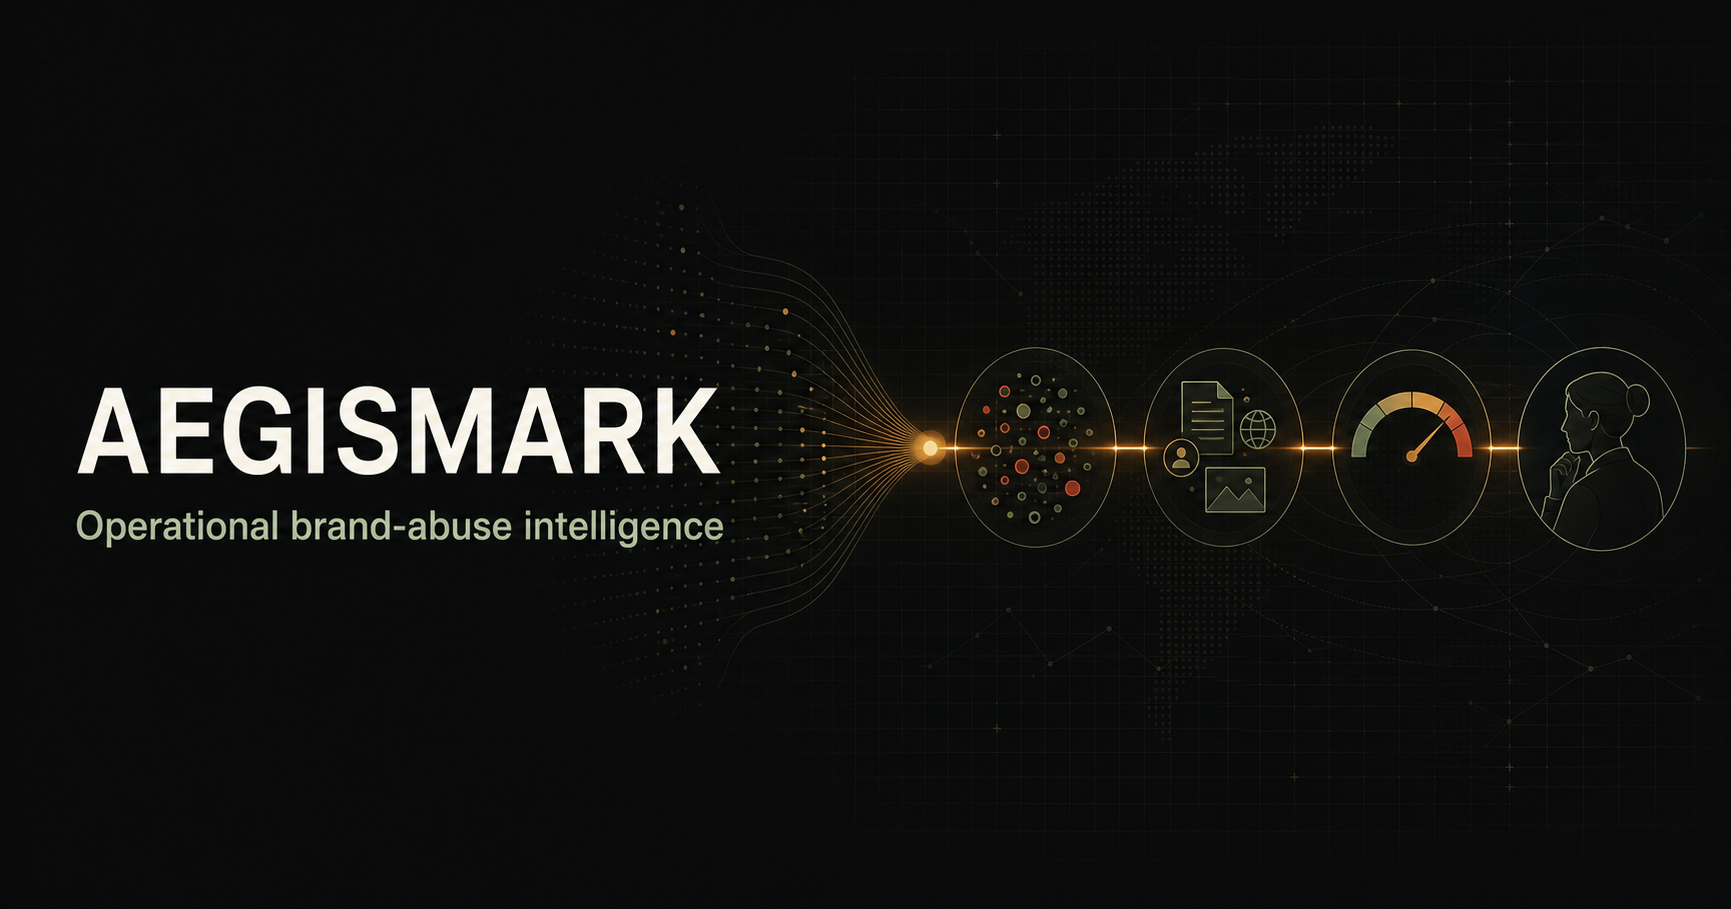
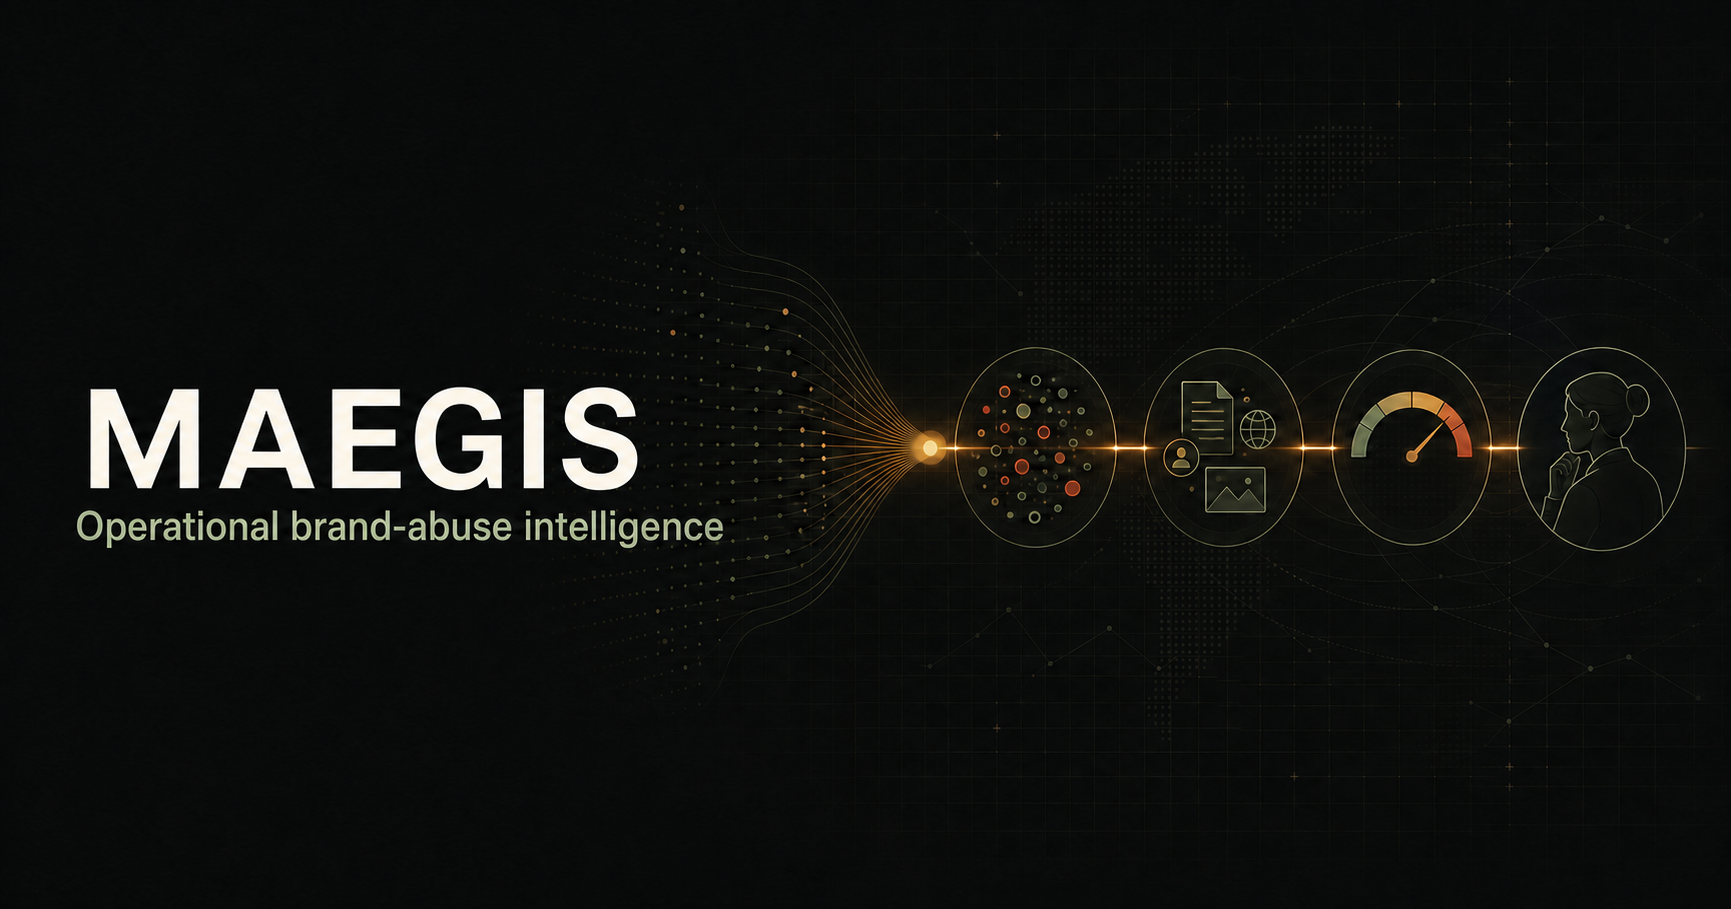
feat: rename platform to MAegis and connect live incident proxy

Changed region(s): [[0.0312, 0.4004, 0.4367, 0.5853], [0.4991, 0.462, 0.5303, 0.5237]]

diff --git a/app/page.tsx b/app/page.tsx
@@ -1,6 +1,6 @@
 "use client";
 
-import { useMemo, useState } from "react";
+import { useEffect, useMemo, useState } from "react";
 
 type Incident = {
   id: string;
@@ -16,7 +16,7 @@ type Incident = {
   summary: string;
 };
 
-const incidents: Incident[] = [
+const seededIncidents: Incident[] = [
   {
     id: "INC-2048",
     domain: "acme-id-verify.com",
@@ -96,9 +96,11 @@ function severityClass(severity: Incident["severity"]) {
 }
 
 export default function Home() {
+  const [incidents, setIncidents] = useState<Incident[]>(seededIncidents);
+  const [dataMode, setDataMode] = useState<"demo" | "live">("demo");
   const [filter, setFilter] = useState("All");
   const [query, setQuery] = useState("");
-  const [selected, setSelected] = useState<Incident | null>(incidents[0]);
+  const [selected, setSelected] = useState<Incident | null>(seededIncidents[0]);
   const [showSubmission, setShowSubmission] = useState(false);
 
   const visible = useMemo(() => {
@@ -107,12 +109,27 @@ export default function Home() {
       const haystack = `${incident.domain} ${incident.brand} ${incident.source}`.toLowerCase();
       return matchesFilter && haystack.includes(query.toLowerCase());
     });
-  }, [filter, query]);
+  }, [filter, query, incidents]);
+
+  useEffect(() => {
+    const controller = new AbortController();
+    fetch("/api/incidents", { signal: controller.signal })
+      .then((response) => response.ok ? response.json() : Promise.reject(new Error("API unavailable")))
+      .then((payload: { mode: "demo" | "live"; incidents: Incident[] }) => {
+        if (payload.mode === "live" && payload.incidents.length > 0) {
+          setIncidents(payload.incidents);
+          setSelected(payload.incidents[0]);
+          setDataMode("live");
+        }
+      })
+      .catch(() => undefined);
+    return () => controller.abort();
+  }, []);
 
   return (
     <main className="app-shell">
       <aside className="sidebar">
-        <div className="wordmark"><span className="brand-sigil">A</span><span>AEGISMARK</span></div>
+        <div className="wordmark"><span className="brand-sigil">M</span><span>MAEGIS</span></div>
         <nav aria-label="Primary navigation">
           <p className="nav-label">Monitor</p>
           <a className="nav-item active" href="#overview"><span>⌁</span>Overview</a>
@@ -140,7 +157,7 @@ export default function Home() {
           </div>
         </header>
 
-        <div className="operational-banner"><span className="pulse-dot" /><strong>Live monitoring</strong><span>Last observation 18 seconds ago</span><span className="banner-rule" /><span>Coverage window</span><strong>24/7</strong></div>
+        <div className="operational-banner"><span className="pulse-dot" /><strong>{dataMode === "live" ? "Live monitoring" : "Read-only demonstration"}</strong><span>{dataMode === "live" ? "Connected to the private MAegis API" : "Seeded findings — configure MAEGIS_API_URL for live data"}</span><span className="banner-rule" /><span>Coverage window</span><strong>24/7</strong></div>
 
         <section className="metrics-grid" aria-label="Key risk metrics">
           <article className="metric-card"><div><span>Open incidents</span><b className="trend up">↑ 18%</b></div><strong>47</strong><p>12 require analyst action</p><div className="mini-bars">{[30,42,34,55,49,72,64,83,78,92].map((height, index) => <i key={index} style={{height: `${height}%`}} />)}</div></article>

diff --git a/app/api/incidents/route.ts b/app/api/incidents/route.ts
@@ -1,0 +1,54 @@
+type ApiIncident = {
+  id: string;
+  domain: string;
+  brand_id: string;
+  risk_score: number;
+  severity: string;
+  status: string;
+  summary: string;
+  created_at: string;
+  contributions?: Array<{ explanation: string }>;
+};
+
+function titleCase(value: string) {
+  return value.replaceAll("_", " ").replace(/\b\w/g, (letter) => letter.toUpperCase());
+}
+
+function ageFrom(value: string) {
+  const seconds = Math.max(0, Math.floor((Date.now() - new Date(value).getTime()) / 1000));
+  if (seconds < 60) return `${seconds}s`;
+  if (seconds < 3600) return `${Math.floor(seconds / 60)}m`;
+  if (seconds < 86400) return `${Math.floor(seconds / 3600)}h`;
+  return `${Math.floor(seconds / 86400)}d`;
+}
+
+export async function GET() {
+  const baseUrl = process.env.MAEGIS_API_URL;
+  if (!baseUrl) return Response.json({ mode: "demo", incidents: [] });
+
+  try {
+    const response = await fetch(`${baseUrl.replace(/\/$/, "")}/api/v1/incidents?limit=100`, {
+      headers: process.env.MAEGIS_API_KEY ? { "X-API-Key": process.env.MAEGIS_API_KEY } : {},
+      cache: "no-store",
+      signal: AbortSignal.timeout(5000),
+    });
+    if (!response.ok) throw new Error(`Backend returned ${response.status}`);
+    const rows = await response.json() as ApiIncident[];
+    const incidents = rows.map((row) => ({
+      id: row.id,
+      domain: row.domain,
+      brand: `Brand ${row.brand_id.slice(0, 8)}`,
+      source: "MAegis API",
+      score: Math.round(row.risk_score),
+      severity: titleCase(row.severity),
+      status: titleCase(row.status),
+      age: ageFrom(row.created_at),
+      firstSeen: new Date(row.created_at).toLocaleString("en-GB", { timeZone: "UTC" }) + " UTC",
+      signals: (row.contributions ?? []).map((item) => item.explanation),
+      summary: row.summary,
+    }));
+    return Response.json({ mode: "live", incidents }, { headers: { "Cache-Control": "no-store" } });
+  } catch {
+    return Response.json({ mode: "demo", incidents: [] });
+  }
+}

diff --git a/app/layout.tsx b/app/layout.tsx
@@ -6,11 +6,11 @@ const geistSans = Geist({ variable: "--font-geist-sans", subsets: ["latin"] });
 const geistMono = Geist_Mono({ variable: "--font-geist-mono", subsets: ["latin"] });
 
 export const metadata: Metadata = {
-  title: "AegisMark — Operational brand-abuse intelligence",
+  title: "MAegis — Operational brand-abuse intelligence",
   description: "Discover, analyze, score, and triage suspicious domains targeting protected brands.",
   icons: { icon: "/favicon.svg", shortcut: "/favicon.svg" },
-  openGraph: { title: "AegisMark", description: "Operational brand-abuse intelligence", images: [{ url: "/og.png", width: 1200, height: 630 }] },
-  twitter: { card: "summary_large_image", title: "AegisMark", description: "Operational brand-abuse intelligence", images: ["/og.png"] },
+  openGraph: { title: "MAegis", description: "Operational brand-abuse intelligence", images: [{ url: "/og.png", width: 1200, height: 630 }] },
+  twitter: { card: "summary_large_image", title: "MAegis", description: "Operational brand-abuse intelligence", images: ["/og.png"] },
 };
 
 export default function RootLayout({ children }: Readonly<{ children: React.ReactNode }>) {

diff --git a/services/api/app/main.py b/services/api/app/main.py
@@ -23,7 +23,7 @@ async def lifespan(_: FastAPI):
 
 
 app = FastAPI(
-    title="AegisMark Operational API",
+    title="MAegis Operational API",
     version="0.1.0",
     description="Live brand-abuse discovery, scoring, evidence, and analyst triage.",
     lifespan=lifespan,
@@ -37,7 +37,7 @@ def audit(db: Session, principal: Principal, action: str, resource_type: str, re
 
 @app.get("/api/v1/health")
 def health() -> dict:
-    return {"status": "ok", "service": "aegismark-api", "capture_enabled": get_settings().capture_enabled}
+    return {"status": "ok", "service": "maegis-api", "capture_enabled": get_settings().capture_enabled}
 
 
 @app.post("/api/v1/brands", response_model=BrandView, status_code=status.HTTP_201_CREATED)

diff --git a/services/api/app/config.py b/services/api/app/config.py
@@ -3,10 +3,10 @@ from pydantic_settings import BaseSettings, SettingsConfigDict
 
 
 class Settings(BaseSettings):
-    model_config = SettingsConfigDict(env_prefix="AEGISMARK_", env_file=".env", extra="ignore")
+    model_config = SettingsConfigDict(env_prefix="MAEGIS_", env_file=".env", extra="ignore")
 
     environment: str = "development"
-    database_url: str = "postgresql+psycopg://aegismark:aegismark@postgres:5432/aegismark"
+    database_url: str = "postgresql+psycopg://maegis:maegis@postgres:5432/maegis"
     api_key: str | None = None
     capture_enabled: bool = False
     ct_search_url: str = "https://crt.sh/"

diff --git a/services/api/app/__init__.py b/services/api/app/__init__.py
@@ -1,2 +1,1 @@
-"""AegisMark operational API."""
-
+"""MAegis operational API."""

diff --git a/README.md b/README.md
@@ -1,8 +1,8 @@
-# AegisMark
+# MAegis
 
-AegisMark is an operational brand-abuse monitoring SaaS that discovers suspicious domains, produces reproducible evidence and risk scores, and gives analysts a structured triage queue. It is designed as a master's thesis and public engineering portfolio without pretending that a solo deployment has commercial passive-DNS coverage.
+MAegis is an operational brand-abuse monitoring SaaS that discovers suspicious domains, produces reproducible evidence and risk scores, and gives analysts a structured triage queue. It is designed as a master's thesis and public engineering portfolio without pretending that a solo deployment has commercial passive-DNS coverage.
 
-![AegisMark social preview](public/og.png)
+![MAegis social preview](public/og.png)
 
 ## Current milestone
 
@@ -79,7 +79,7 @@ The response contains the normalized domain, risk, confidence, severity, detecto
 
 ## Safety defaults
 
-- Page capture is disabled unless `AEGISMARK_CAPTURE_ENABLED=true`.
+- Page capture is disabled unless `MAEGIS_CAPTURE_ENABLED=true`.
 - Public, private, loopback, link-local, reserved, credential-bearing, non-HTTP, and nonstandard-port targets are rejected.
 - Redirects and subresources are validated independently.
 - Capture does not enter credentials, submit forms, accept downloads, or preserve sessions.
@@ -101,4 +101,3 @@ CI additionally validates linting and container definitions.
 ## Roadmap
 
 The next implementation increments are DNS record enrichment, API-backed console mutations, full evidence timelines, campaign clustering, OIDC enforcement, OpenAI-compatible grounded analysis, analyst feedback capture, notifications, and signed evidence exports. Commercial passive DNS, Kafka, Kubernetes, and automated takedown are deliberately outside the initial milestone.
-
